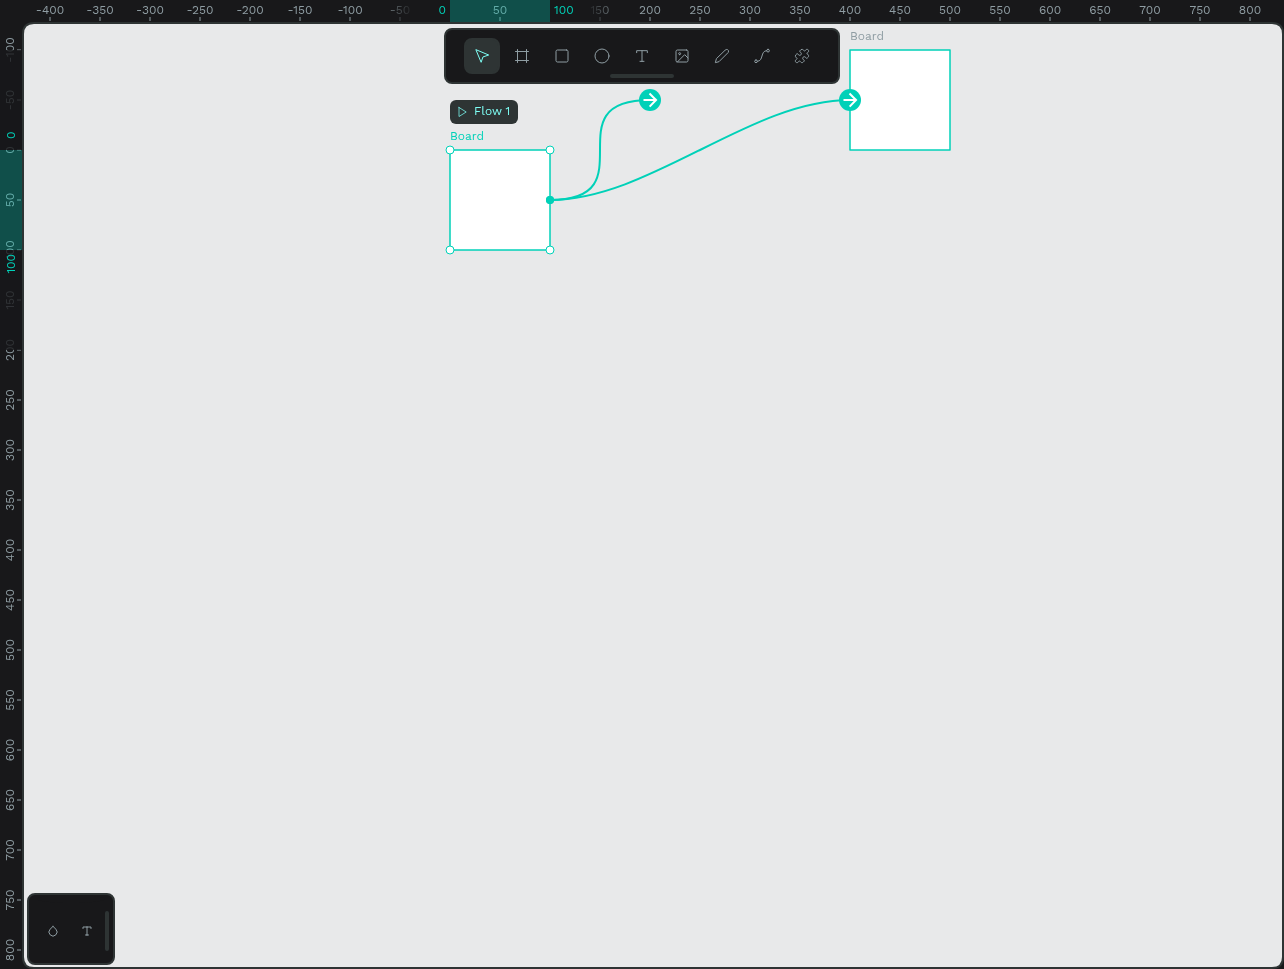
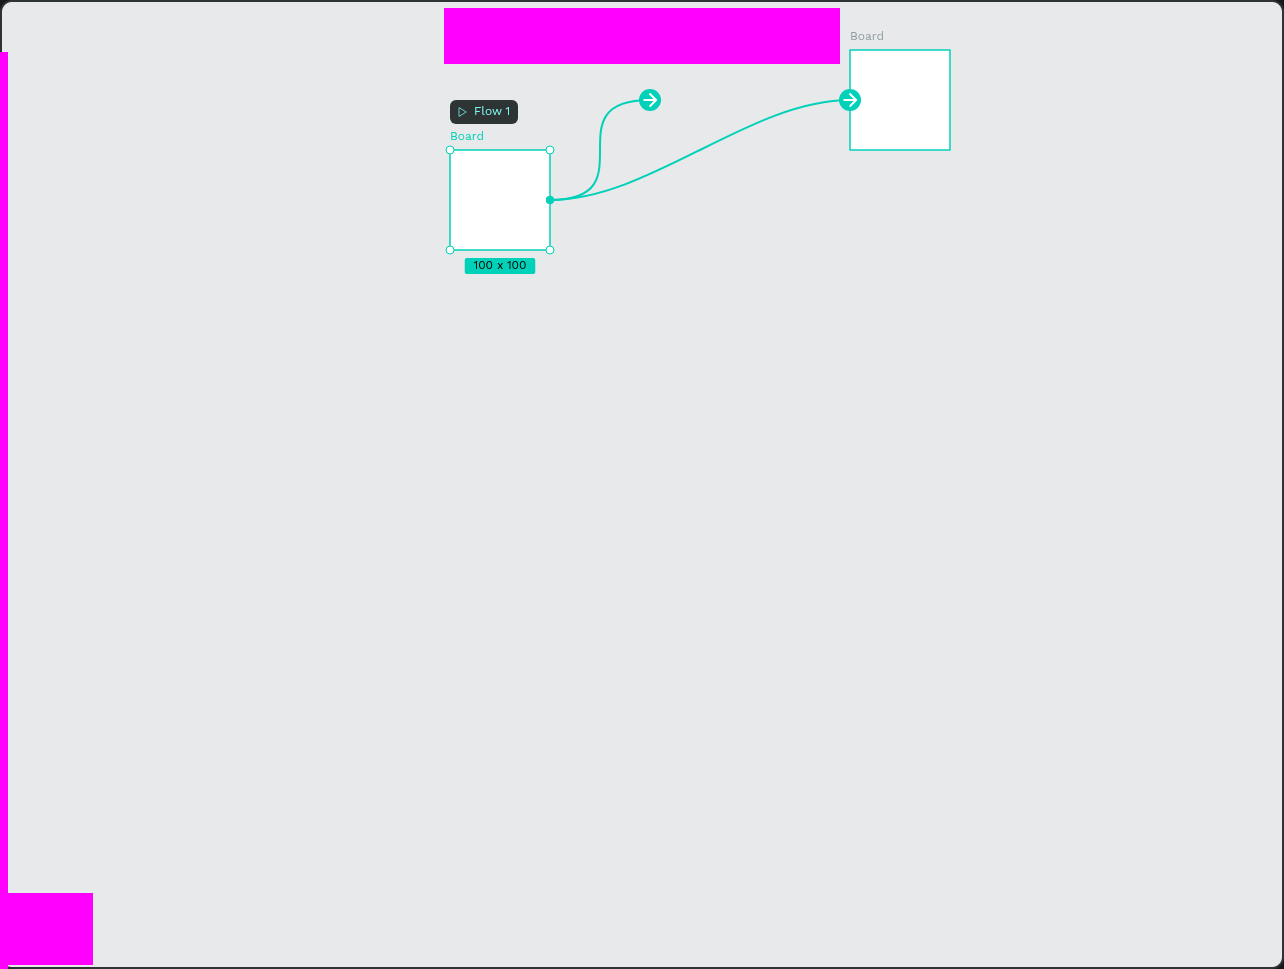
fix(tests): update snapshots adding the size badge 861 (#728)

Changed region(s): [[0.0, 0.0, 1.0, 1.0], [0.3427, 0.2477, 0.4361, 0.3096]]

diff --git a/tests/panels-features/panels-features-prototype.spec.js b/tests/panels-features/panels-features-prototype.spec.js
@@ -59,9 +59,10 @@ mainTest.describe(() => {
     await mainPage.waitForChangeIsSaved();
     await prototypePanelPage.isPrototypeArrowSecondConnectorDisplayed();
     await prototypePanelPage.checkNumberOfInteractions(2);
+    await mainPage.hideRulersViaMainMenu();
     await expect(mainPage.viewport).toHaveScreenshot('add-interaction.png', {
+      mask: mainPage.maskViewport(),
       usersSection: true,
-      useRulers: false,
     });
   });
 